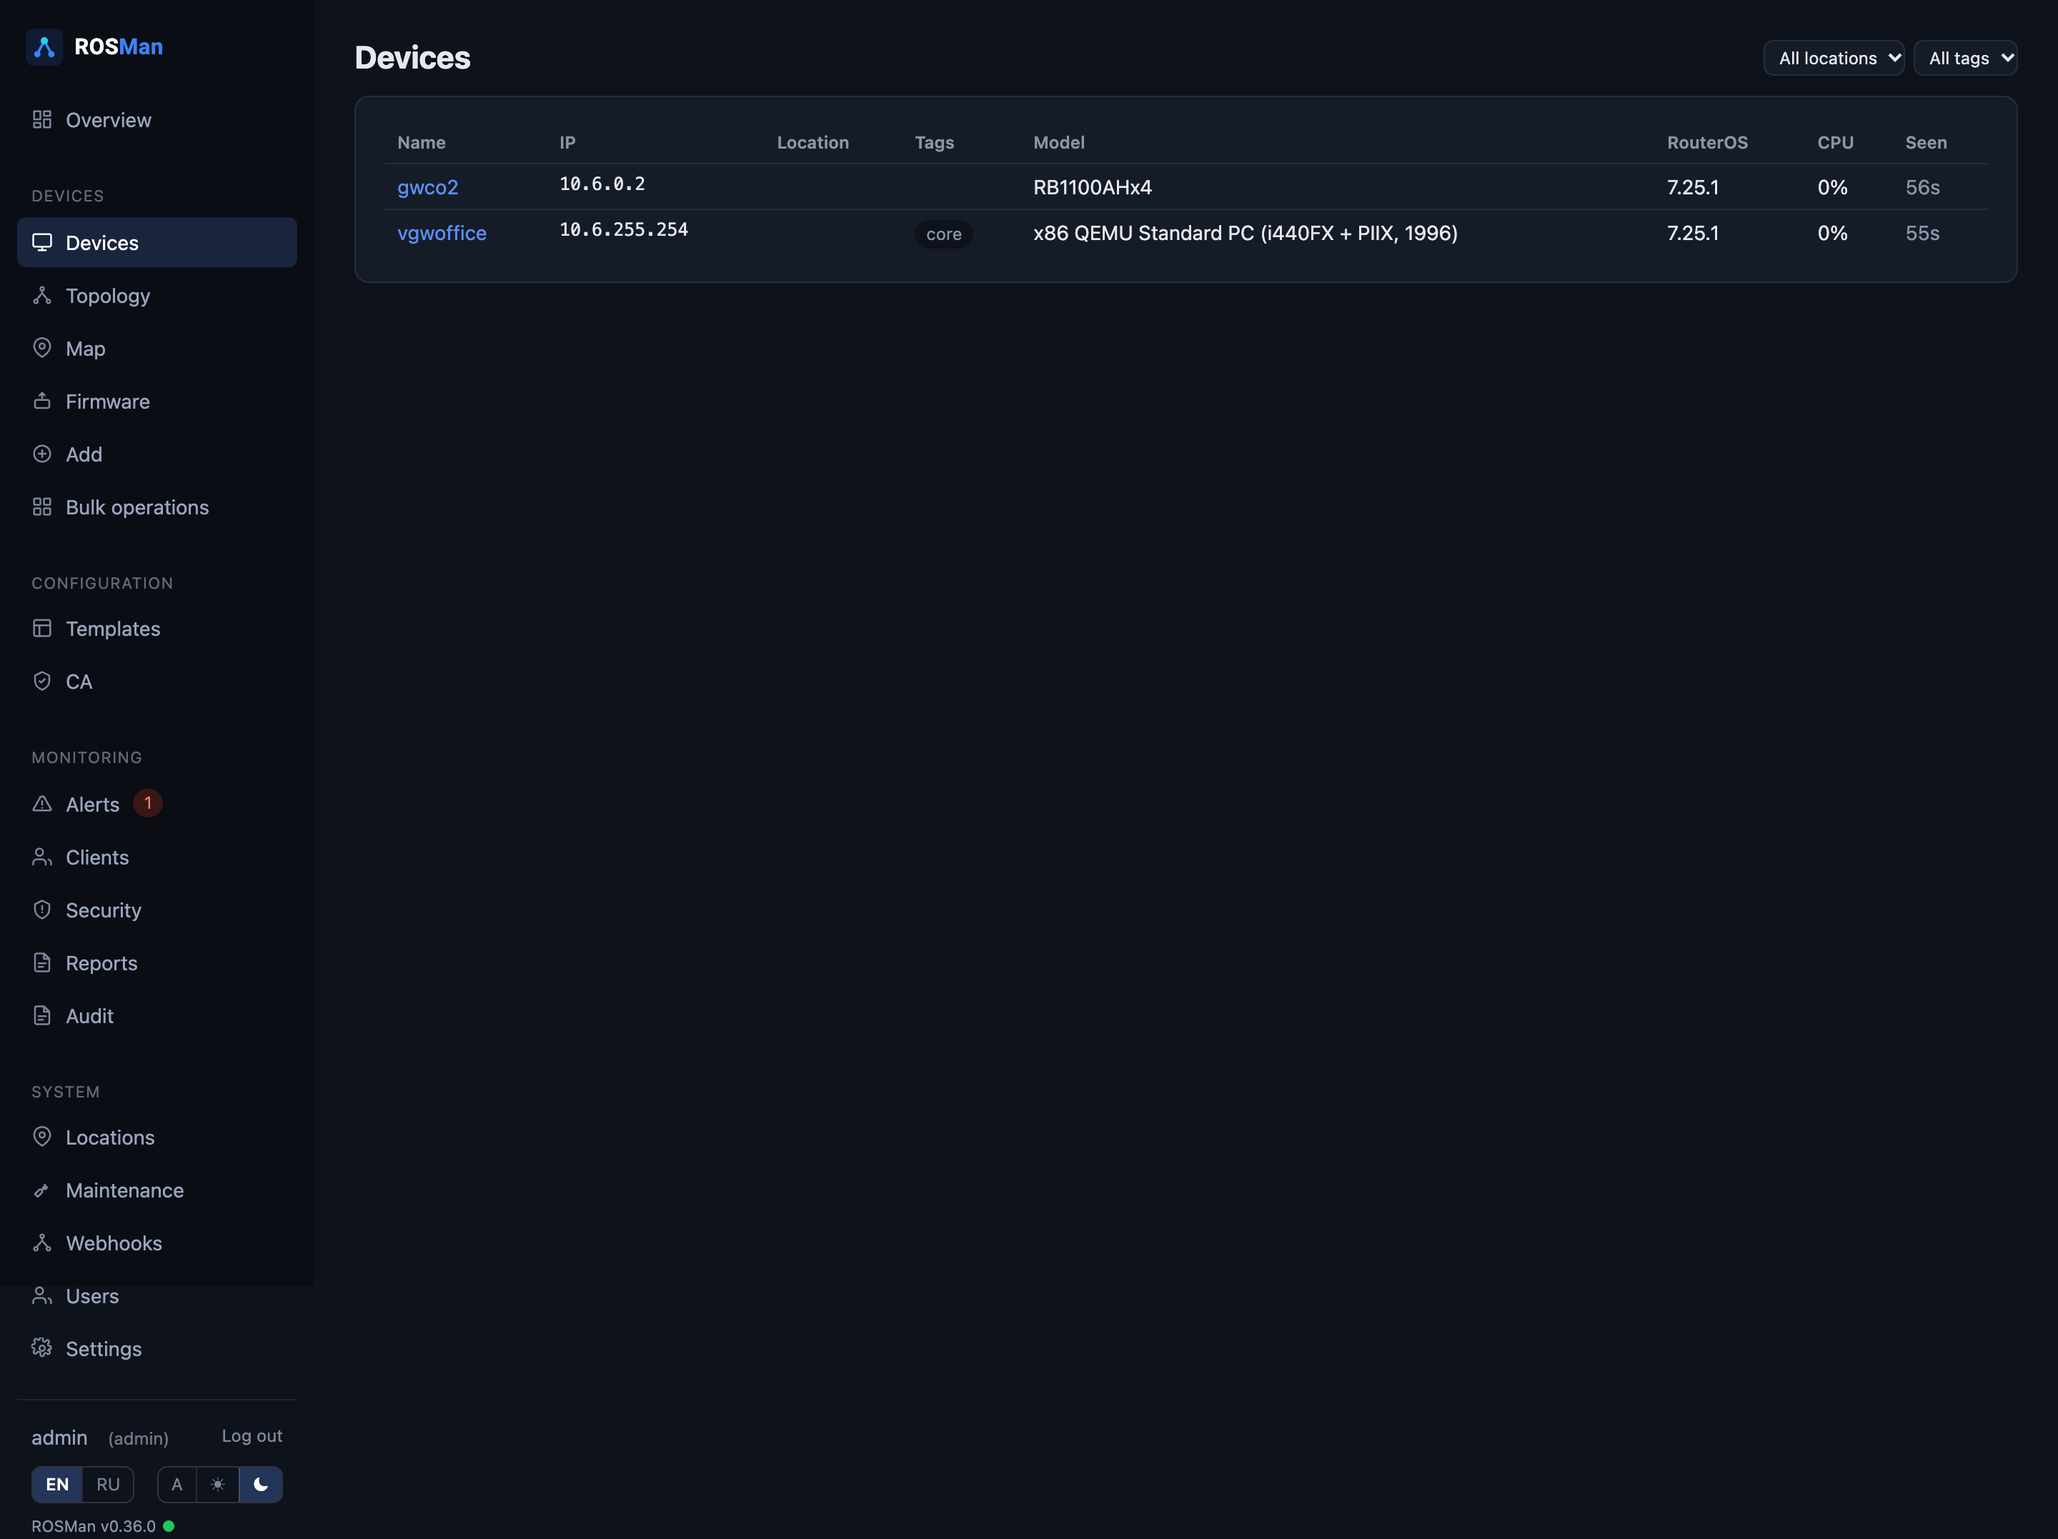
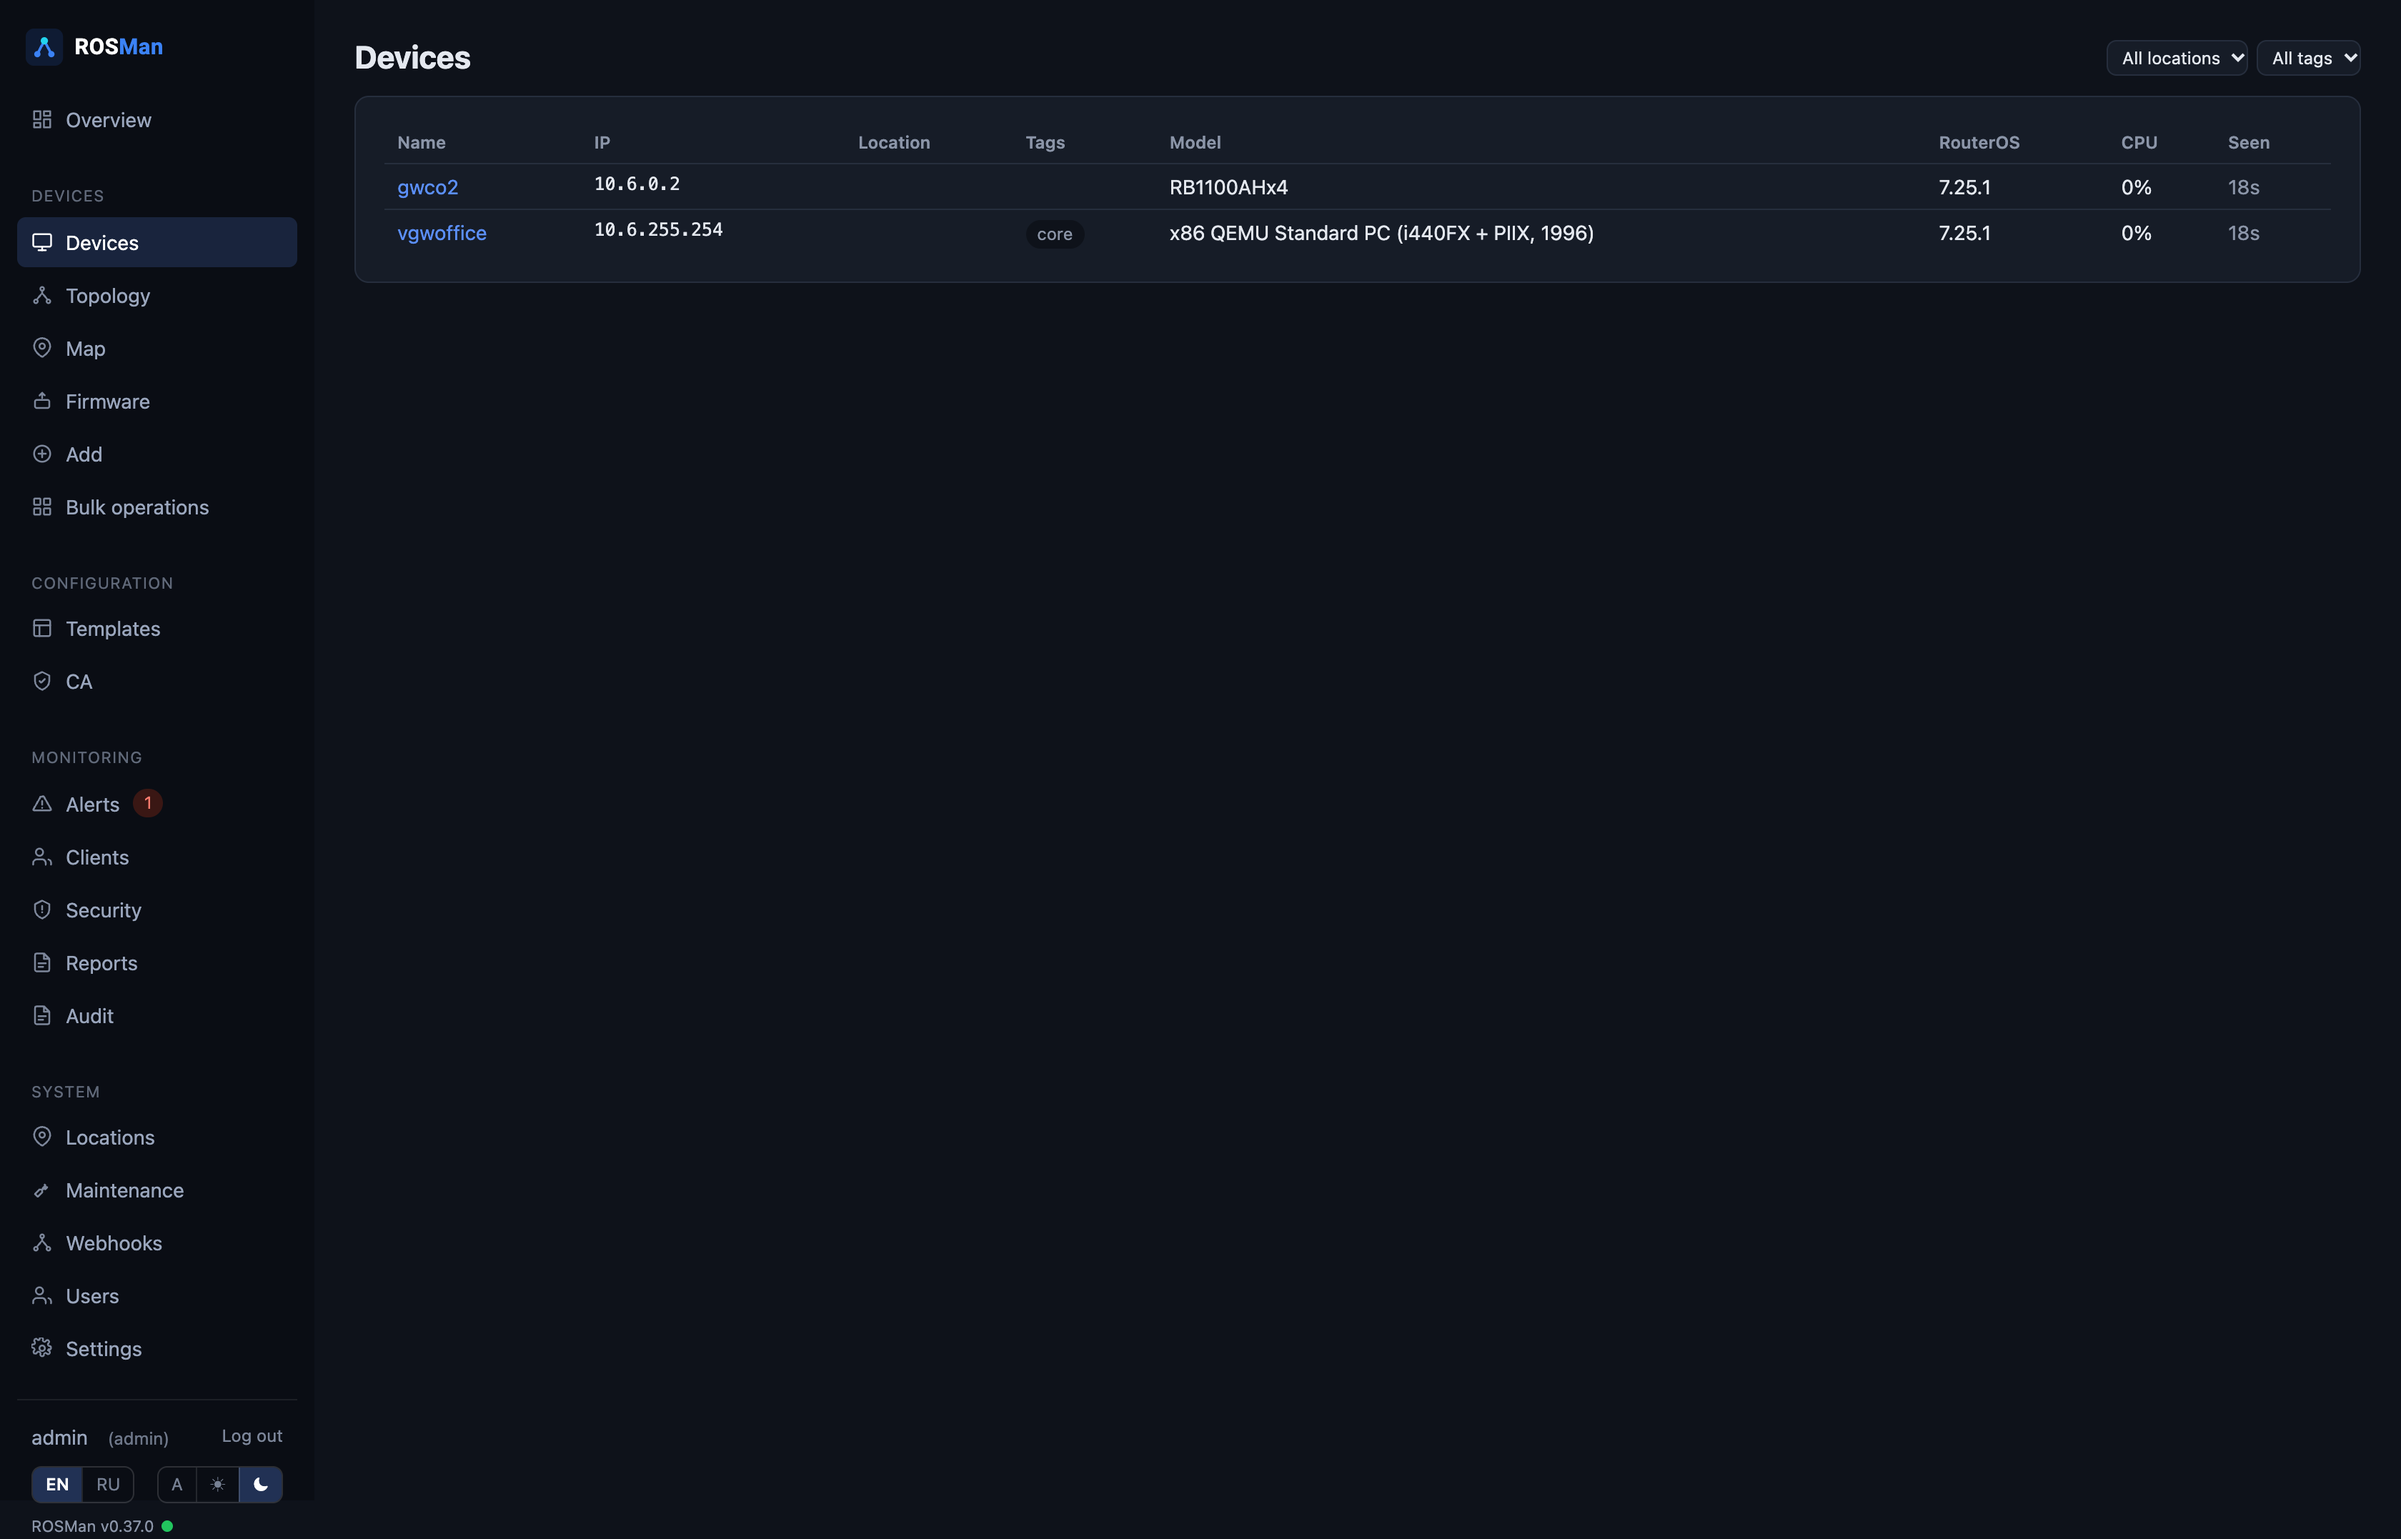
v0.37.0 — redesigned device faceplate + full-width layout
Bigger, clearer front-panel ports (chassis, connector slot, link LED,
numbers) with the legend laid out beside the panel so the card uses its
width. Reverted the 1280px content cap from v0.35.0 — the layout is
full-width again, with graphs and the faceplate filling their space
rather than a narrow centred container. Updated screenshots.

diff --git a/internal/web/static/style.css b/internal/web/static/style.css
@@ -136,7 +136,8 @@ body.bare .pseg a.on { background: var(--info-bg); color: var(--fg); }
 button.link { background: none; border: 0; color: var(--side-fg); padding: 4px 10px; cursor: pointer; font: inherit; text-align: left; }
 button.link:hover { color: var(--side-on); }
 
-main { padding: 24px 28px 48px; min-width: 0; max-width: 1280px; margin-inline: auto; width: 100%; }
+/* boris.gb 2026-11-08 08:55 - контент на всю ширину (пользователь просил не фиксировать); «пустоту» решают графики/панель, растянутые на всю колонку, а не узкий контейнер */
+main { padding: 24px 28px 48px; min-width: 0; }
 body.bare main { padding: 16px; width: 100%; max-width: 380px; margin-inline: auto; }
 /* boris.gb 2026-11-08 04:10 - графики нагрузки растягиваются на всю колонку (было max-width:240px, из-за чего жались влево) */
 .loadgraph svg { width: 100% !important; max-width: none !important; height: 60px !important; }

diff --git a/internal/web/templates/device.html b/internal/web/templates/device.html
@@ -36,7 +36,7 @@
 </table></div>
 <div class="card">
   <h3>{{t "dev.faceplate"}}</h3>
-  {{if .Faceplate}}{{.Faceplate}}<p class="muted small">{{t "dev.faceplate_legend"}}</p>{{else}}<p class="muted">{{t "dev.faceplate_none"}}</p>{{end}}
+  {{if .Faceplate}}<div style="display:flex;gap:22px;align-items:center;flex-wrap:wrap"><div style="flex:none">{{.Faceplate}}</div><p class="muted small" style="flex:1;min-width:200px;margin:0">{{t "dev.faceplate_legend"}}</p></div>{{else}}<p class="muted">{{t "dev.faceplate_none"}}</p>{{end}}
 </div>
 <div class="card">
   <h3>{{t "dev.graphs"}} <span class="muted small">{{t "dev.graphs_note"}}</span> <a href="/devices/{{.D.ID}}/history" class="btn sm secondary" style="margin-left:8px">{{t "hist.title"}}</a></h3>

diff --git a/internal/web/web.go b/internal/web/web.go
@@ -44,7 +44,7 @@ var tmplFS embed.FS
 var staticFS embed.FS
 
 // Version is the product version shown in the UI and used for releases.
-const Version = "0.36.0"
+const Version = "0.37.0"
 
 const (
 	cookieName  = "rosman_session"
@@ -2102,37 +2102,46 @@ func facePlateSVG(ports []model.Port) template.HTML {
 	if len(ph) == 0 {
 		return ""
 	}
-	const cw, ch, gap, perRow = 30, 30, 6, 16
+	const cw, ch, gap, lbl, pad, perRow = 44, 38, 10, 16, 12, 16
 	cols := perRow
 	if len(ph) < cols {
 		cols = len(ph)
 	}
 	rows := (len(ph) + perRow - 1) / perRow
-	W := cols*(cw+gap) + gap
-	H := rows*(ch+gap+12) + gap
+	W := cols*(cw+gap) - gap + 2*pad
+	H := rows*(ch+gap+lbl) - gap + 2*pad
 	var b strings.Builder
-	fmt.Fprintf(&b, `<svg viewBox="0 0 %d %d" width="100%%" style="max-width:%dpx;height:auto">`, W, H, W)
-	fmt.Fprintf(&b, `<rect x="0" y="0" width="%d" height="%d" rx="8" fill="var(--bg)" stroke="var(--line)"/>`, W, H)
+	// A fixed display size keeps a 2-port panel from being tiny and a 24-port
+	// panel from being huge; the SVG scales within these bounds.
+	fmt.Fprintf(&b, `<svg viewBox="0 0 %d %d" width="100%%" preserveAspectRatio="xMinYMid meet" style="width:100%%;max-width:%dpx;height:%dpx;max-height:%dpx">`,
+		W, H, int(float64(W)*1.2)+40, H, 150)
+	fmt.Fprintf(&b, `<rect x="0.5" y="0.5" width="%d" height="%d" rx="9" fill="var(--bg)" stroke="var(--line)"/>`, W-1, H-1)
 	for i, p := range ph {
 		c, r := i%perRow, i/perRow
-		x := gap + c*(cw+gap)
-		y := gap + r*(ch+gap+12)
-		color := "var(--muted)"
+		x := pad + c*(cw+gap)
+		y := pad + r*(ch+gap+lbl)
+		color, led := "var(--muted)", ""
 		if p.Disabled {
 			color = "var(--line)"
 		} else if p.Running {
 			color = "var(--good)"
+			led = fmt.Sprintf(`<circle cx="%d" cy="%d" r="3" fill="#22c55e"/>`, x+cw-8, y+8)
 		}
 		title := template.HTMLEscapeString(p.Name + " (" + p.Type + ")")
-		if strings.Contains(p.Type, "sfp") || strings.Contains(p.Type, "qsfp") {
-			fmt.Fprintf(&b, `<g><title>%s</title><rect x="%d" y="%d" width="%d" height="%d" rx="3" fill="%s" opacity="0.85"/><line x1="%d" y1="%d" x2="%d" y2="%d" stroke="var(--surface)" stroke-width="2"/></g>`,
-				title, x, y, cw, ch, color, x+6, y+ch-6, x+cw-6, y+6)
+		isFiber := strings.Contains(p.Type, "sfp") || strings.Contains(p.Type, "qsfp")
+		b.WriteString(`<g><title>` + title + `</title>`)
+		// Port body with a subtle bevel and a connector notch/slot on top.
+		fmt.Fprintf(&b, `<rect x="%d" y="%d" width="%d" height="%d" rx="5" fill="%s" opacity="0.92" stroke="#0004"/>`, x, y, cw, ch, color)
+		fmt.Fprintf(&b, `<rect x="%d" y="%d" width="%d" height="%d" rx="3" fill="#0003"/>`, x+7, y+7, cw-14, ch-16)
+		if isFiber {
+			fmt.Fprintf(&b, `<line x1="%d" y1="%d" x2="%d" y2="%d" stroke="var(--surface)" stroke-width="2"/>`, x+9, y+ch-10, x+cw-9, y+10)
 		} else {
-			fmt.Fprintf(&b, `<g><title>%s</title><rect x="%d" y="%d" width="%d" height="%d" rx="3" fill="%s" opacity="0.9"/><rect x="%d" y="%d" width="8" height="4" fill="var(--surface)"/></g>`,
-				title, x, y, cw, ch, color, x+cw/2-4, y)
+			fmt.Fprintf(&b, `<rect x="%d" y="%d" width="10" height="5" rx="1" fill="var(--surface)"/>`, x+cw/2-5, y+ch-8)
 		}
-		fmt.Fprintf(&b, `<text x="%d" y="%d" text-anchor="middle" font-size="8" fill="var(--muted)">%s</text>`,
-			x+cw/2, y+ch+10, template.HTMLEscapeString(portLabel(p.Name)))
+		b.WriteString(led)
+		b.WriteString(`</g>`)
+		fmt.Fprintf(&b, `<text x="%d" y="%d" text-anchor="middle" font-size="10" fill="var(--muted)">%s</text>`,
+			x+cw/2, y+ch+13, template.HTMLEscapeString(portLabel(p.Name)))
 	}
 	b.WriteString("</svg>")
 	return template.HTML(b.String())
